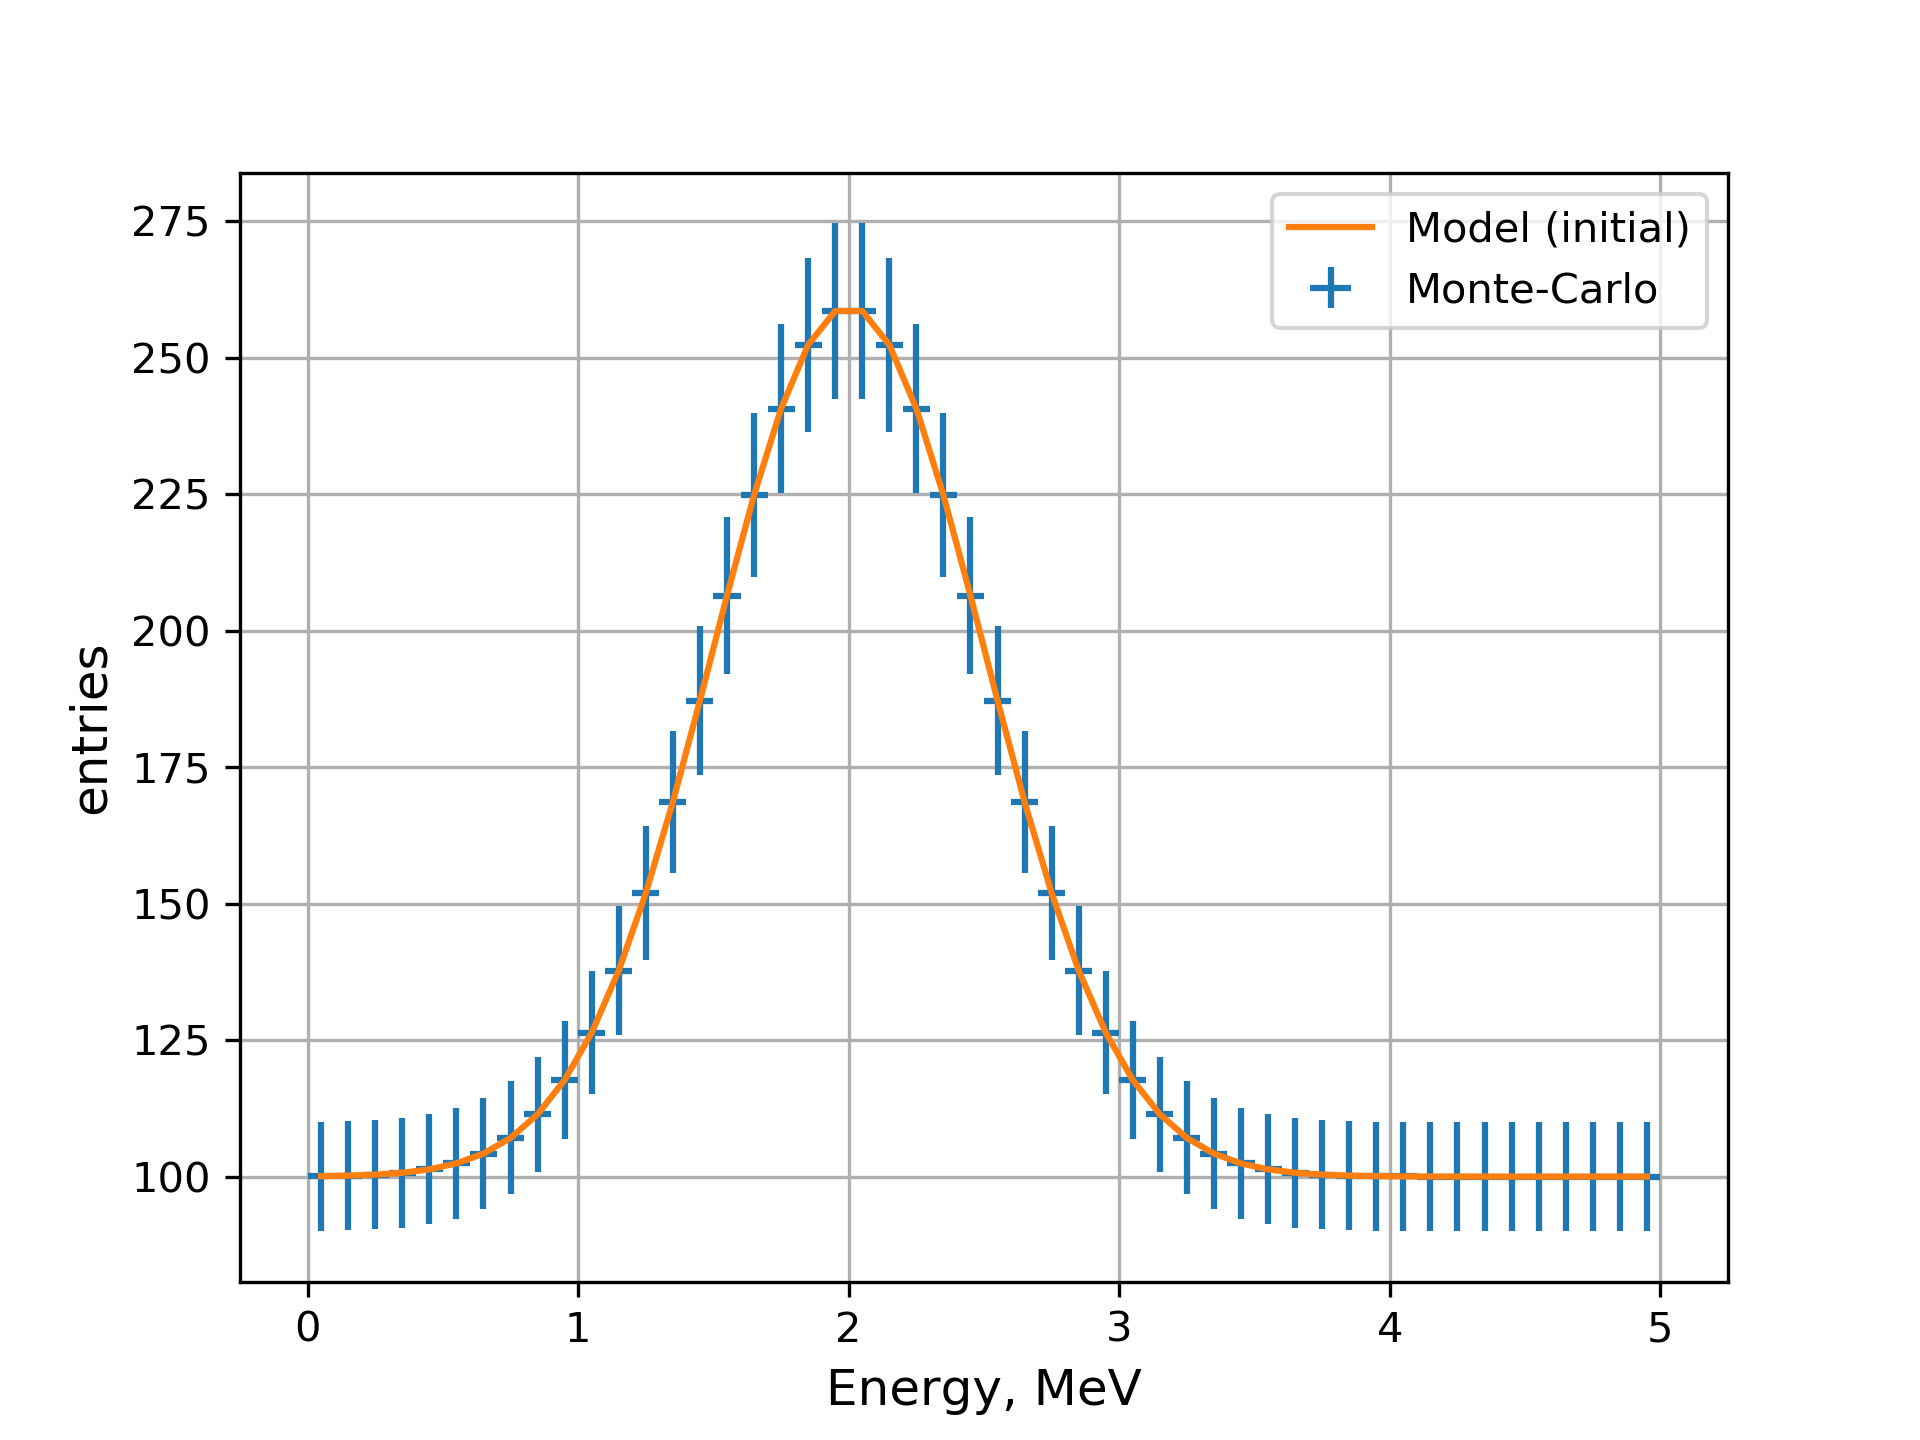
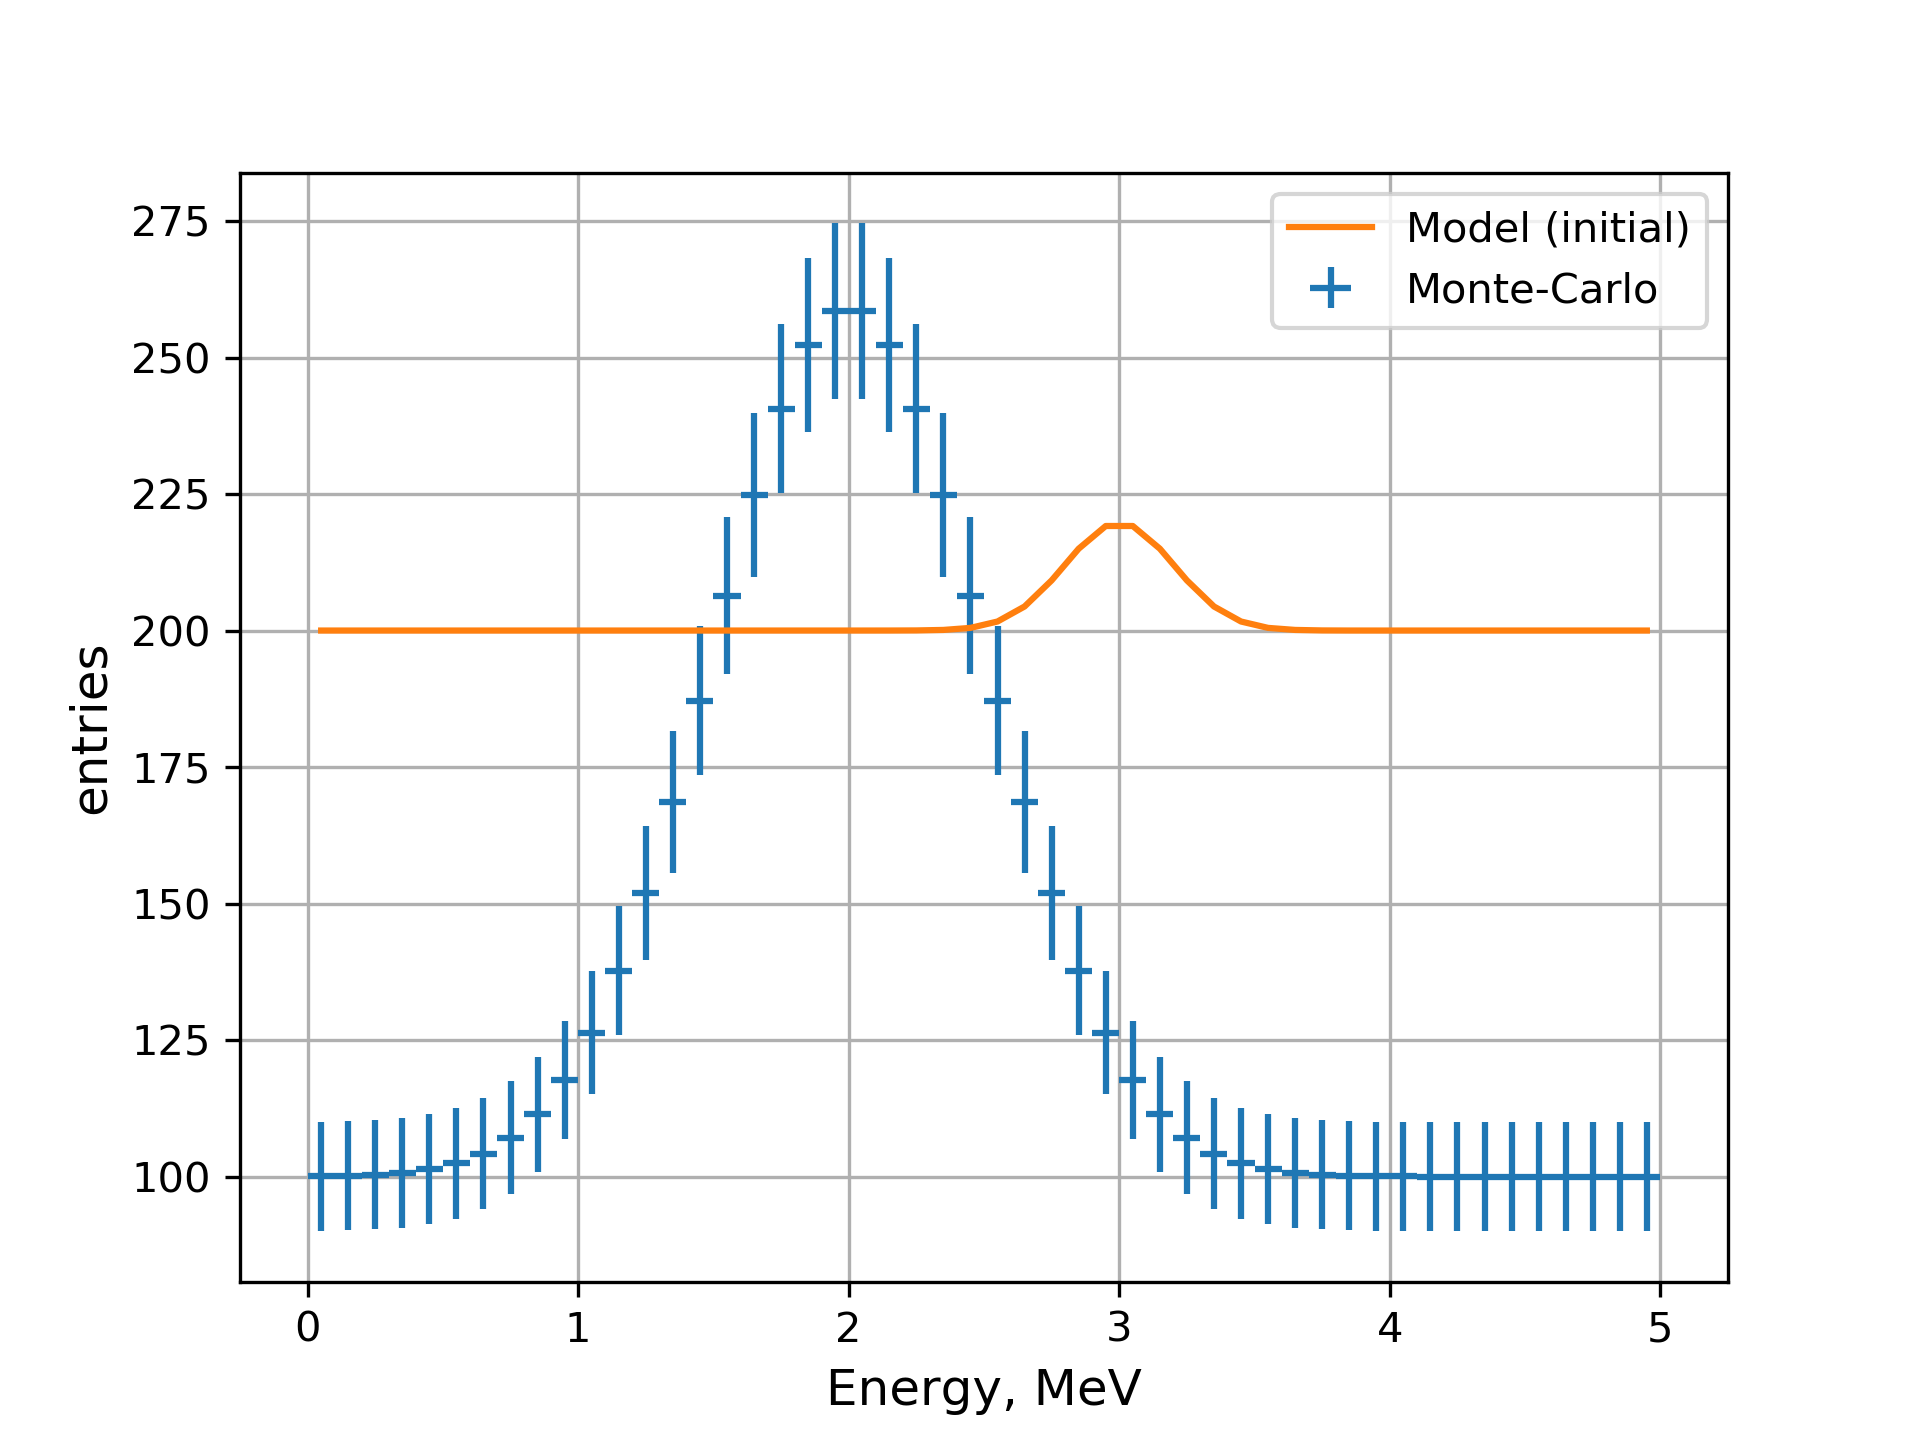
Update tutorial on fitting: add snapshot

diff --git a/doc/source/tutorial/fitting_using_snapshots.rst b/doc/source/tutorial/fitting_using_snapshots.rst
@@ -5,160 +5,34 @@ When the model contains a lot of elements and parameters it becomes inconvenient
 A `snapshot` UI may be used to save the state of any output. It uses `Snapshot` transformation. An example from the
 :ref:`fitting_asimov` may be simplified as follows:
 
-..
-    At first, we initialize two `gaussianpeak` modules with names `peak_MC` and `peak_f`. The former will be used as data
-    while the latter will be used as a model to be fit.
+.. literalinclude:: ../../../macro/tutorial/fit/02_fit_script_snapshot.sh
+    :lines: 3-
+    :linenos:
+    :emphasize-lines: 8
+    :caption: :download:`02_fit_script_snapshot.sh <../../../macro/tutorial/fit/02_fit_script_snapshot.sh>`
 
-    .. literalinclude:: ../../../macro/tutorial/fit/01_fit_script.sh
-        :linenos:
-        :lines: 3-5
-        :caption: :download:`01_fit_script.sh <../../../macro/tutorial/fit/01_fit_script.sh>`
+The second model is replaced by the frozen copy of the original model. Snapshot UI takes at least two arguments:
+the output to read and the output to create. In current case the model from `peak/spectrum` is copied to the
+`peak/spectrum_MC` and frozen. The outputs remain bound though, so `peak/spectrum_MC` may be updated based on the new
+state of the `peak/spectrum` manually.
 
-    Now, using `ns` module we change the parameters for the models:
+The fit produces identical result as the previous:
 
-    .. literalinclude:: ../../../macro/tutorial/fit/01_fit_script.sh
-        :linenos:
-        :lines: 6-15
+.. figure:: ../../img/tutorial/fit/02_fit_models_snapshot.png
+   :align: center
 
-    Here we have used slightly different approach to the parameters. Instead of defining the parameters prior the models, we
-    change them after the module creates the default versions. Syntax of the :code:`--set` option is pretty similar to the
-    one of the :code:`--define`.
+   MC data defined by the model `peak/spectrum_MC`, initial and best fit state of the model `peak/spectrum`.
 
-    This command line produces the following output.
+.. literalinclude:: ../../img/tutorial/fit/02_fit_models_snapshot.out
+    :linenos:
+    :lines: 16-43
+    :emphasize-lines: 3,12,19
 
-    .. code-block:: text
+The full graph of this setup is presented below. The nodes for Asimov MC and statistical errors are shown with dashed
+borders which indicates that their data is frozen after being read and will not be updated when minimizer will change
+the model parameters.
 
-       Add observable: peak_MC/spectrum
-       Add observable: peak_f/spectrum
-       Variables in namespace 'peak_MC':
-         BackgroundRate       =       1000 │                 [fixed]                 │ Flat background rate 0
-         Mu                   =       2000 │                 [fixed]                 │ Peak 0 amplitude
-         E0                   =          2 │                 [fixed]                 │ Peak 0 position
-         Width                =        0.5 │                 [fixed]                 │ Peak 0 width
-       Variables in namespace 'peak_f':
-         BackgroundRate       =       2000 │        2000±         500 [         25%] │ Flat background rate 0
-         Mu                   =        100 │         100±          25 [         25%] │ Peak 0 amplitude
-         E0                   =          4 │           4±         0.8 [         20%] │ Peak 0 position
-         Width                =        0.2 │         0.2±        0.04 [         20%] │ Peak 0 width
+.. figure:: ../../img/tutorial/fit/02_fit_models_snapshot_graph.png
+   :align: center
 
-
-    Now we may plot the result with the following command line:
-
-    .. literalinclude:: ../../../macro/tutorial/fit/01_fit_script.sh
-        :lines: 16-18
-
-    .. figure:: ../../img/tutorial/fit/01_fit_models_initial.png
-       :align: center
-
-       MC data defined by the model `peak_MC` and initial state of the model `peak_f`.
-
-    Next step is to define the Datasets and Analysis instances. Both of them should have unique name defined. Names should
-    be unique across the similar modules: all datasets should have unique names and all analysis should have unique names,
-    there still may exist a dataset and an analysis with the same name.
-
-    The Dataset is defined by the `dataset` module.
-
-    .. literalinclude:: ../../../macro/tutorial/fit/01_fit_script.sh
-        :lines: 19
-
-    We have just created dataset `peak`, that makes a correspondence between the output `peak_f/spectrum` and output
-    `peak_MC/spectrum` (data). The option :code:`--asimov-data` indicates that `peak_MC` will have no fluctuations added.
-
-    In case of a single Asimov dataset the Analysis definition is straightforward:
-
-    .. literalinclude:: ../../../macro/tutorial/fit/01_fit_script.sh
-        :lines: 20
-
-    Here we define Analysis, named `analysis`, which is using a single dataset `peak`. The analysis now may be used to
-    define the statistics. Let us use the :math:`\chi^2` statistics:
-
-    .. literalinclude:: ../../../macro/tutorial/fit/01_fit_script.sh
-        :lines: 21
-
-    The syntax is similar. The module `chi2` defines the :math:`\chi^2` statistics with name `stats_chi2` and assigns it to
-    the analysis `analysis`.
-
-    In order to create the minimizer one needs to define its name, type, statistics and a set of parameters to minimize.
-    Parameters may be defined either as a list of parameter names or the namespace names. All the parameters from the
-    namespaces, mentioned in the command, will be used for minimization.
-
-    .. literalinclude:: ../../../macro/tutorial/fit/01_fit_script.sh
-        :lines: 22
-
-    Here we define the minimizer `min`, which will use ROOT's Minuit to minimize the statistics `stats_chi2`, which depends
-    on the parameters, listed in the namespace `peak_f`.
-
-    The `minimizer` module only creates minimizer, but does not use it for the minimization. It may then be used from other
-    modules to find a best fit, estimate confidence intervals, etc. The fitting may be invoked from the `fit` module:
-
-    .. literalinclude:: ../../../macro/tutorial/fit/01_fit_script.sh
-        :lines: 23
-
-    This simple module performs a fit, prints the result to standard output (:code:`-p` option) and saves it to the output
-    file (:code:`-o` option). After the minimization is done, the best fit values, estimated uncertainties, function at the
-    minimum are printed as well as some usage statistics.
-
-    .. code-block:: text
-      :linenos:
-      :emphasize-lines: 3,10,17
-
-      Fit result:${
-        cpu : 0.060144,
-        errors : [2.10443859e+01 8.98718560e+01 1.99255272e-02 2.15730652e-02],
-        errorsdict : ${
-          BackgroundRate : 21.0443858746,
-          Mu : 89.8718559973,
-          E0 : 0.0199255272086,
-          Width : 0.0215730651604,
-        },
-        fun : 4.51940800958e-07,
-        maxcv : 0.01,
-        names : ['BackgroundRate', 'Mu', 'E0', 'Width'],
-        nfev : 162,
-        npars : 4,
-        success : True,
-        wall : 0.0604510307312,
-        x : [1.00000394e+03 1.99996759e+03 1.99998887e+00 4.99994251e-01],
-        xdict : ${
-          BackgroundRate : 1000.00394357,
-          Mu : 1999.96758892,
-          E0 : 1.99998886819,
-          Width : 0.499994250586,
-        },
-      }
-
-    Extra option :code:`-s`/:code:`--set` makes fitter to set the best fit values to the model, unless the fit failed.
-    Now we can plot the state of the fit model.
-
-    .. literalinclude:: ../../../macro/tutorial/fit/01_fit_script.sh
-        :lines: 24-
-
-    The `ns` module prints the current and default values of the parameters to the output:
-
-    .. code-block:: text
-
-       Variables in namespace 'peak_f':
-         BackgroundRate       =       1000 │        2000±         500 [         25%] │ Flat background rate 0
-         Mu                   =    1999.97 │         100±          25 [         25%] │ Peak 0 amplitude
-         E0                   =    1.99999 │           4±         0.8 [         20%] │ Peak 0 position
-         Width                =   0.499994 │         0.2±        0.04 [         20%] │ Peak 0 width
-
-    The result of the fitting is:
-
-    .. figure:: ../../img/tutorial/fit/01_fit_models_fit.png
-       :align: center
-
-       MC data defined by the model `peak_MC` and best fit state of the model `peak_f`.
-
-    As soon as the model contains no fluctuations, the function at the minimum is consistent with zero:
-    :math:`\chi^2_\text{min}\approx10^{-10}`.
-
-    Also, the `fit` module have saved readable version of the result to the file :download:`01_fit_models.yaml
-    <../../img/tutorial/fit/01_fit_models.yaml>` in the YAML format, which can be later loaded back into python.
-
-    The full version of the command is below:
-
-    .. literalinclude:: ../../../macro/tutorial/fit/01_fit_script.sh
-        :linenos:
-        :caption: :download:`01_fit_script.sh <../../../macro/tutorial/fit/01_fit_script.sh>`
-
+    The computational graph used to fit the current model.

diff --git a/doc/source/tutorial/fitting_asimov.rst b/doc/source/tutorial/fitting_asimov.rst
@@ -24,33 +24,11 @@ Here we have used slightly different approach to the parameters. Instead of defi
 change them after the module creates the default versions. Syntax of the :code:`--set` option is pretty similar to the
 one of the :code:`--define`.
 
-This command line produces the following output.
+This command line produces the following output:
 
-.. code-block:: text
-
-   Add observable: peak_MC/spectrum
-   Add observable: peak_f/spectrum
-   Variables in namespace 'peak_MC':
-     BackgroundRate       =       1000 │                 [fixed]                 │ Flat background rate 0
-     Mu                   =       2000 │                 [fixed]                 │ Peak 0 amplitude
-     E0                   =          2 │                 [fixed]                 │ Peak 0 position
-     Width                =        0.5 │                 [fixed]                 │ Peak 0 width
-   Variables in namespace 'peak_f':
-     BackgroundRate       =       2000 │        2000±         500 [         25%] │ Flat background rate 0
-     Mu                   =        100 │         100±          25 [         25%] │ Peak 0 amplitude
-     E0                   =          4 │           4±         0.8 [         20%] │ Peak 0 position
-     Width                =        0.2 │         0.2±        0.04 [         20%] │ Peak 0 width
-
-
-Now we may plot the result with the following command line:
-
-.. literalinclude:: ../../../macro/tutorial/fit/01_fit_script.sh
-    :lines: 16-18
-
-.. figure:: ../../img/tutorial/fit/01_fit_models_initial.png
-   :align: center
-
-   MC data defined by the model `peak_MC` and initial state of the model `peak_f`.
+.. literalinclude:: ../../img/tutorial/fit/01_fit_models.out
+    :linenos:
+    :lines: 3-14
 
 Next step is to define the Datasets and Analysis instances. Both of them should have unique name defined. Names should
 be unique across the similar modules: all datasets should have unique names and all analysis should have unique names,
@@ -59,15 +37,27 @@ there still may exist a dataset and an analysis with the same name.
 The Dataset is defined by the `dataset` module.
 
 .. literalinclude:: ../../../macro/tutorial/fit/01_fit_script.sh
-    :lines: 19
+    :lines: 18
 
 We have just created dataset `peak`, that makes a correspondence between the output `peak_f/spectrum` and output
 `peak_MC/spectrum` (data). The option :code:`--asimov-data` indicates that `peak_MC` will have no fluctuations added.
 
+In addition to data and theory outputs dataset defines statistical uncertainties. They are optional in a sense, that
+they may be used by the static, for example by :math:`\chi^2` function. In case log-Poisson is used the statistical
+uncertainties defined in data set will be ignored.
+
+.. attention:: 
+
+    By default Pearson's definition for statistical uncertainties is used: For each bin :math:`i`
+    :math:`\sigma_\text{stat}=\sqrt{N_i}`, where :math:`N_i` comes from theory. Therefore statistical uncertainties
+    depend on the actual parameter values used for the theory at the current step.
+
+    Statistical uncertainties output is frozen and will not be updated when minimizer will change the parameters.
+
 In case of a single Asimov dataset the Analysis definition is straightforward:
 
 .. literalinclude:: ../../../macro/tutorial/fit/01_fit_script.sh
-    :lines: 20
+    :lines: 19
 
 Here we define Analysis, named `analysis`, which is using a single dataset `peak`. The analysis now may be used to
 define the statistics. Let us use the :math:`\chi^2` statistics:
@@ -83,65 +73,53 @@ Parameters may be defined either as a list of parameter names or the namespace n
 namespaces, mentioned in the command, will be used for minimization.
 
 .. literalinclude:: ../../../macro/tutorial/fit/01_fit_script.sh
-    :lines: 22
+    :lines: 25
 
 Here we define the minimizer `min`, which will use ROOT's Minuit to minimize the statistics `stats_chi2`, which depends
 on the parameters, listed in the namespace `peak_f`.
+
+For the illustration purpose let us now change the parameters for the minimization:
+
+.. literalinclude:: ../../../macro/tutorial/fit/01_fit_script.sh
+    :lines: 20-24
+
+Now we may plot the data and initial state of the model with the following command line:
+
+.. literalinclude:: ../../../macro/tutorial/fit/01_fit_script.sh
+    :lines: 26-28
+
+.. figure:: ../../img/tutorial/fit/01_fit_models_initial.png
+   :align: center
+
+   MC data defined by the model `peak_MC` and initial state of the model `peak_f`.
 
 The `minimizer` module only creates minimizer, but does not use it for the minimization. It may then be used from other
 modules to find a best fit, estimate confidence intervals, etc. The fitting may be invoked from the `fit` module:
 
 .. literalinclude:: ../../../macro/tutorial/fit/01_fit_script.sh
-    :lines: 23
+    :lines: 29
 
 This simple module performs a fit, prints the result to standard output (:code:`-p` option) and saves it to the output
 file (:code:`-o` option). After the minimization is done, the best fit values, estimated uncertainties, function at the
 minimum are printed as well as some usage statistics.
 
-.. code-block:: text
-  :linenos:
-  :emphasize-lines: 3,10,17
+.. literalinclude:: ../../img/tutorial/fit/01_fit_models.out
+    :linenos:
+    :lines: 22-49
+    :emphasize-lines: 3,12,19
 
-  Fit result:${
-    cpu : 0.060144,
-    errors : [2.10443859e+01 8.98718560e+01 1.99255272e-02 2.15730652e-02],
-    errorsdict : ${
-      BackgroundRate : 21.0443858746,
-      Mu : 89.8718559973,
-      E0 : 0.0199255272086,
-      Width : 0.0215730651604,
-    },
-    fun : 4.51940800958e-07,
-    maxcv : 0.01,
-    names : ['BackgroundRate', 'Mu', 'E0', 'Width'],
-    nfev : 162,
-    npars : 4,
-    success : True,
-    wall : 0.0604510307312,
-    x : [1.00000394e+03 1.99996759e+03 1.99998887e+00 4.99994251e-01],
-    xdict : ${
-      BackgroundRate : 1000.00394357,
-      Mu : 1999.96758892,
-      E0 : 1.99998886819,
-      Width : 0.499994250586,
-    },
-  }
+The minimizer takes care so that original values of the parameters were restored after the minimization process.
 
 Extra option :code:`-s`/:code:`--set` makes fitter to set the best fit values to the model, unless the fit failed.
 Now we can plot the state of the fit model.
 
 .. literalinclude:: ../../../macro/tutorial/fit/01_fit_script.sh
-    :lines: 24-
+    :lines: 31-
 
 The `ns` module prints the current and default values of the parameters to the output:
 
-.. code-block:: text
-
-   Variables in namespace 'peak_f':
-     BackgroundRate       =       1000 │        2000±         500 [         25%] │ Flat background rate 0
-     Mu                   =    1999.97 │         100±          25 [         25%] │ Peak 0 amplitude
-     E0                   =    1.99999 │           4±         0.8 [         20%] │ Peak 0 position
-     Width                =   0.499994 │         0.2±        0.04 [         20%] │ Peak 0 width
+.. literalinclude:: ../../img/tutorial/fit/01_fit_models.out
+    :lines: 51-55
 
 The result of the fitting is:
 
@@ -151,7 +129,7 @@ The result of the fitting is:
    MC data defined by the model `peak_MC` and best fit state of the model `peak_f`.
 
 As soon as the model contains no fluctuations, the function at the minimum is consistent with zero:
-:math:`\chi^2_\text{min}\approx10^{-10}`.
+:math:`\chi^2_\text{min}\lesssim10^{-8}`.
 
 Also, the `fit` module have saved readable version of the result to the file :download:`01_fit_models.yaml
 <../../img/tutorial/fit/01_fit_models.yaml>` in the YAML format, which can be later loaded back into python.

diff --git a/doc/source/reactor.rst b/doc/source/reactor.rst
@@ -99,9 +99,9 @@ Here ``ns`` stands for namespace of the experiment.
 Let's see how this works on example of the JUNO experiment. The
 initialization is done in the ``pylib/gna/ui/juno.py``:
 
-.. literalinclude:: ../../pylib/gna/ui/juno.py
-   :language: py
-   :linenos:
+.. caution:: 
+
+    This section is outdated. The file is no longer supported.
 
 In the ``initparser()`` classmethod we just call the corresponding
 methods in ``basecmd`` and ``ReactorExperimentModel`` to define the
